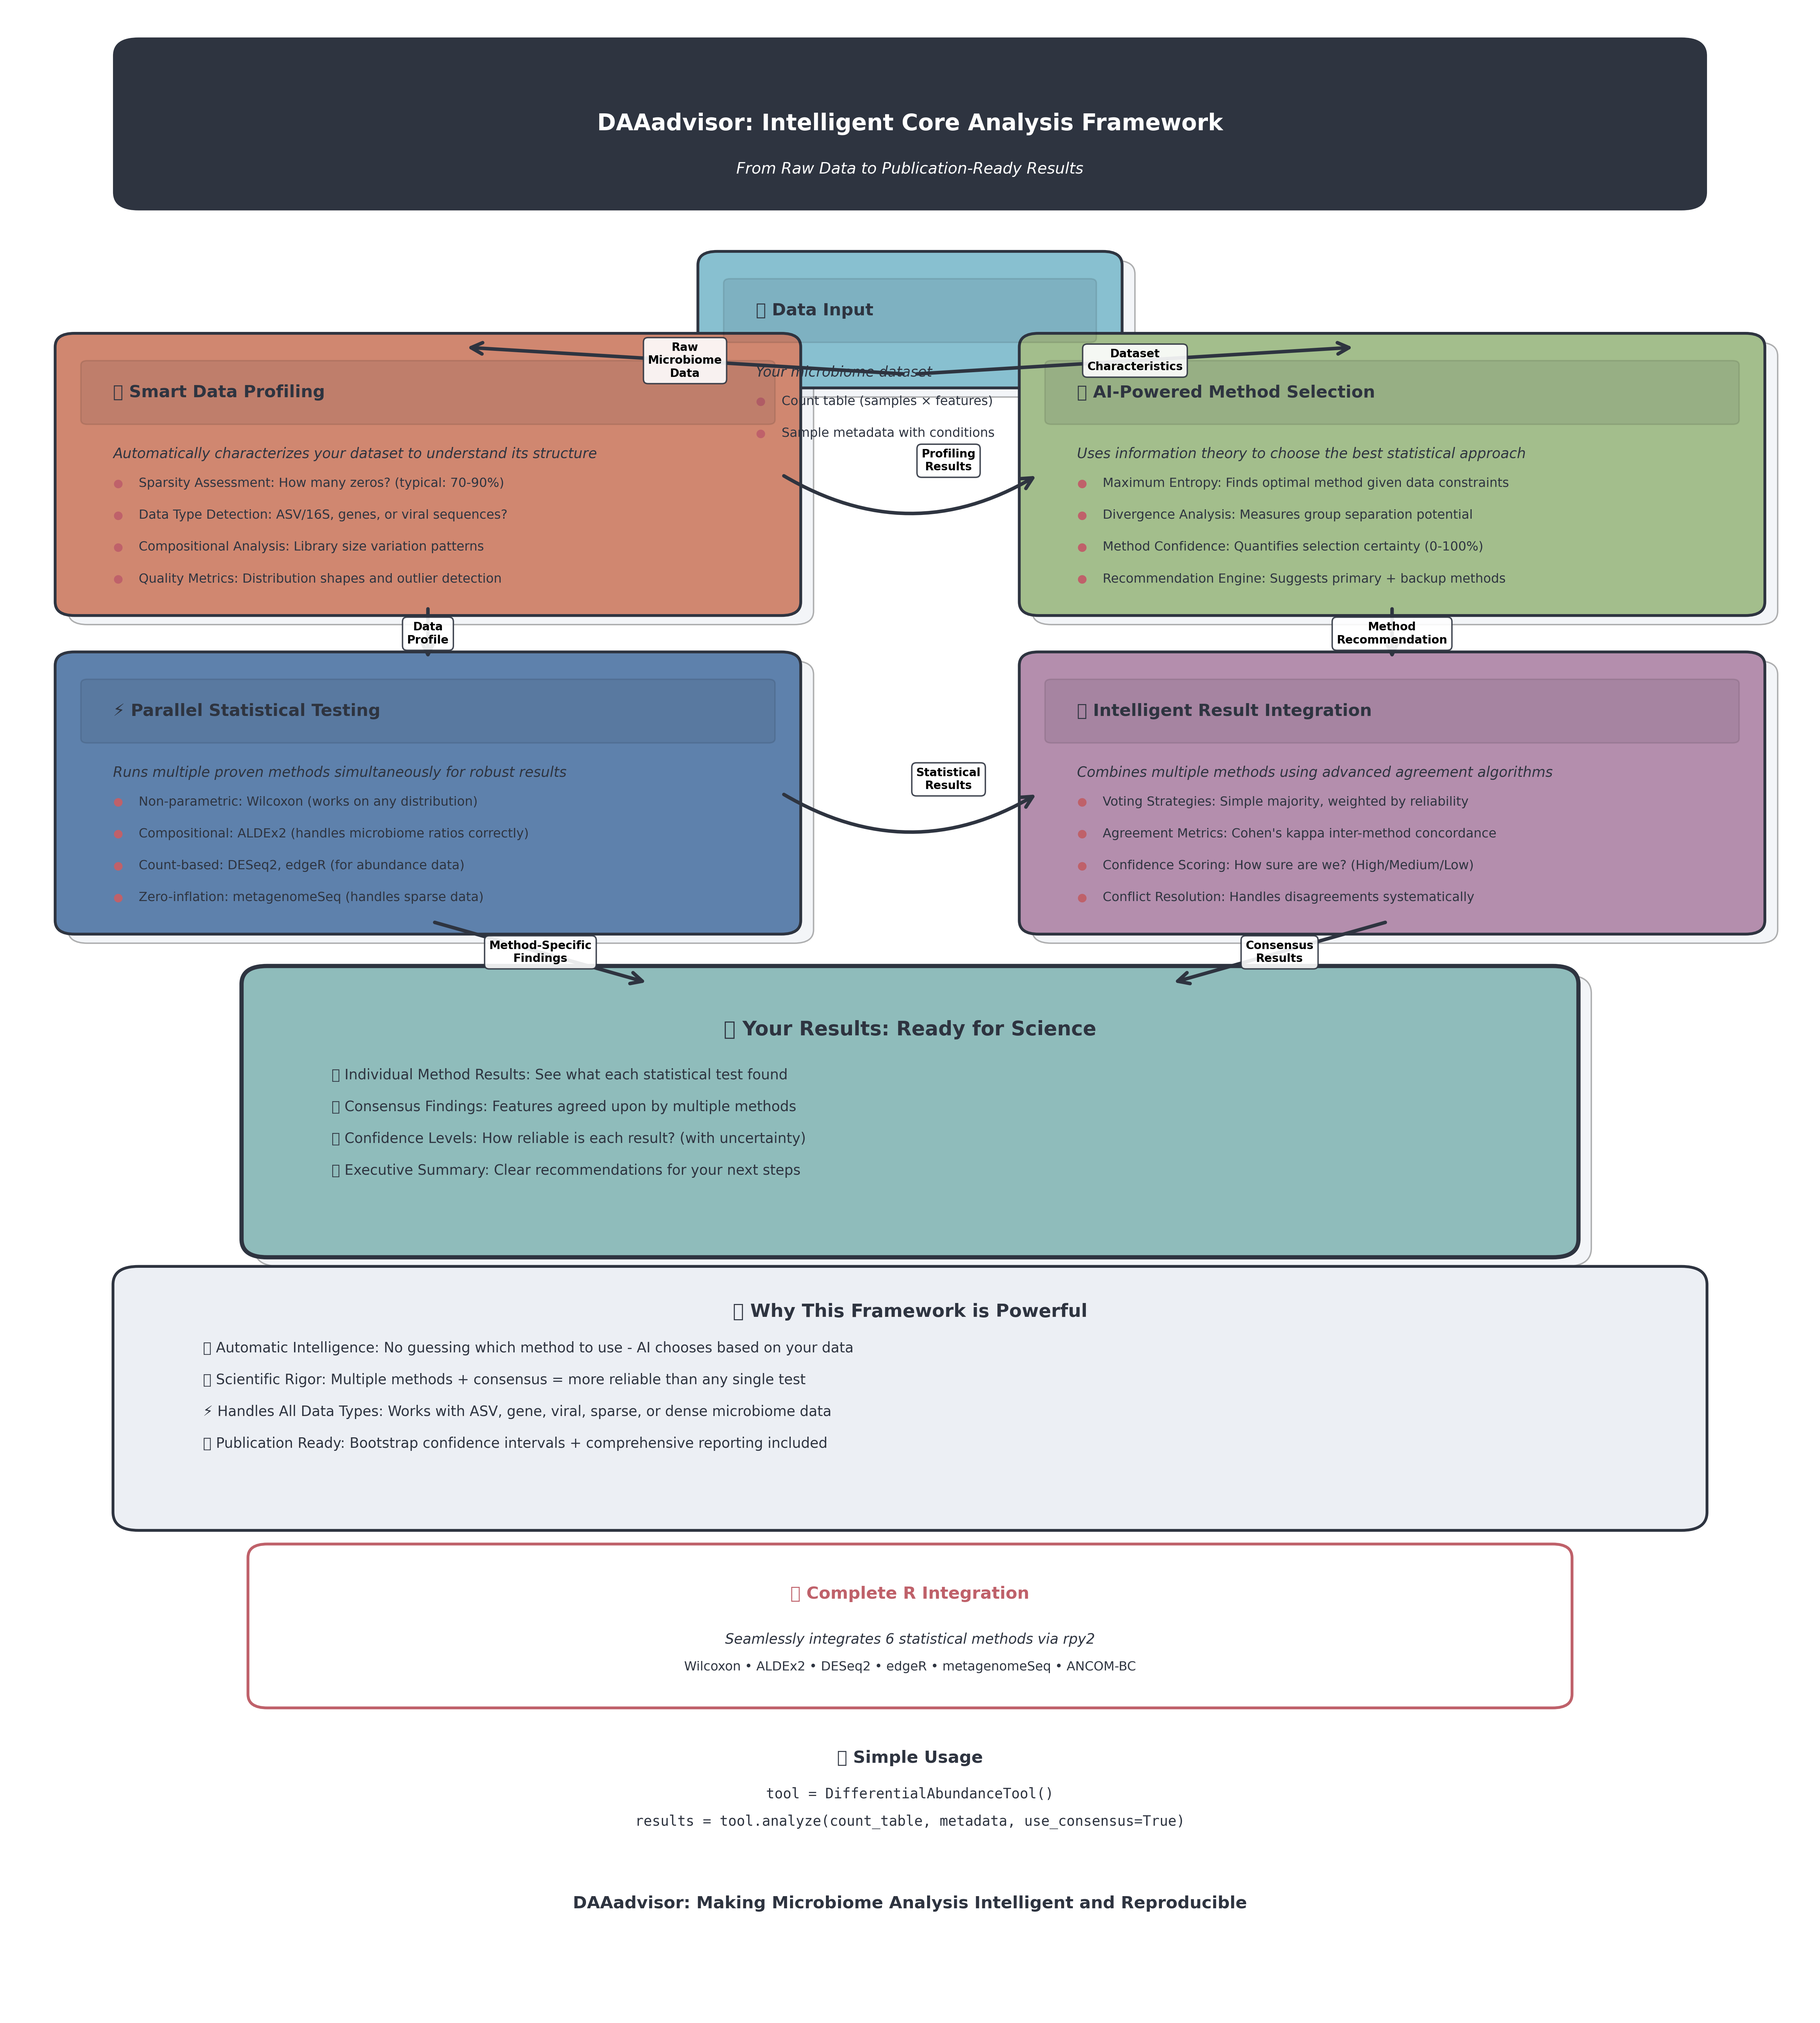
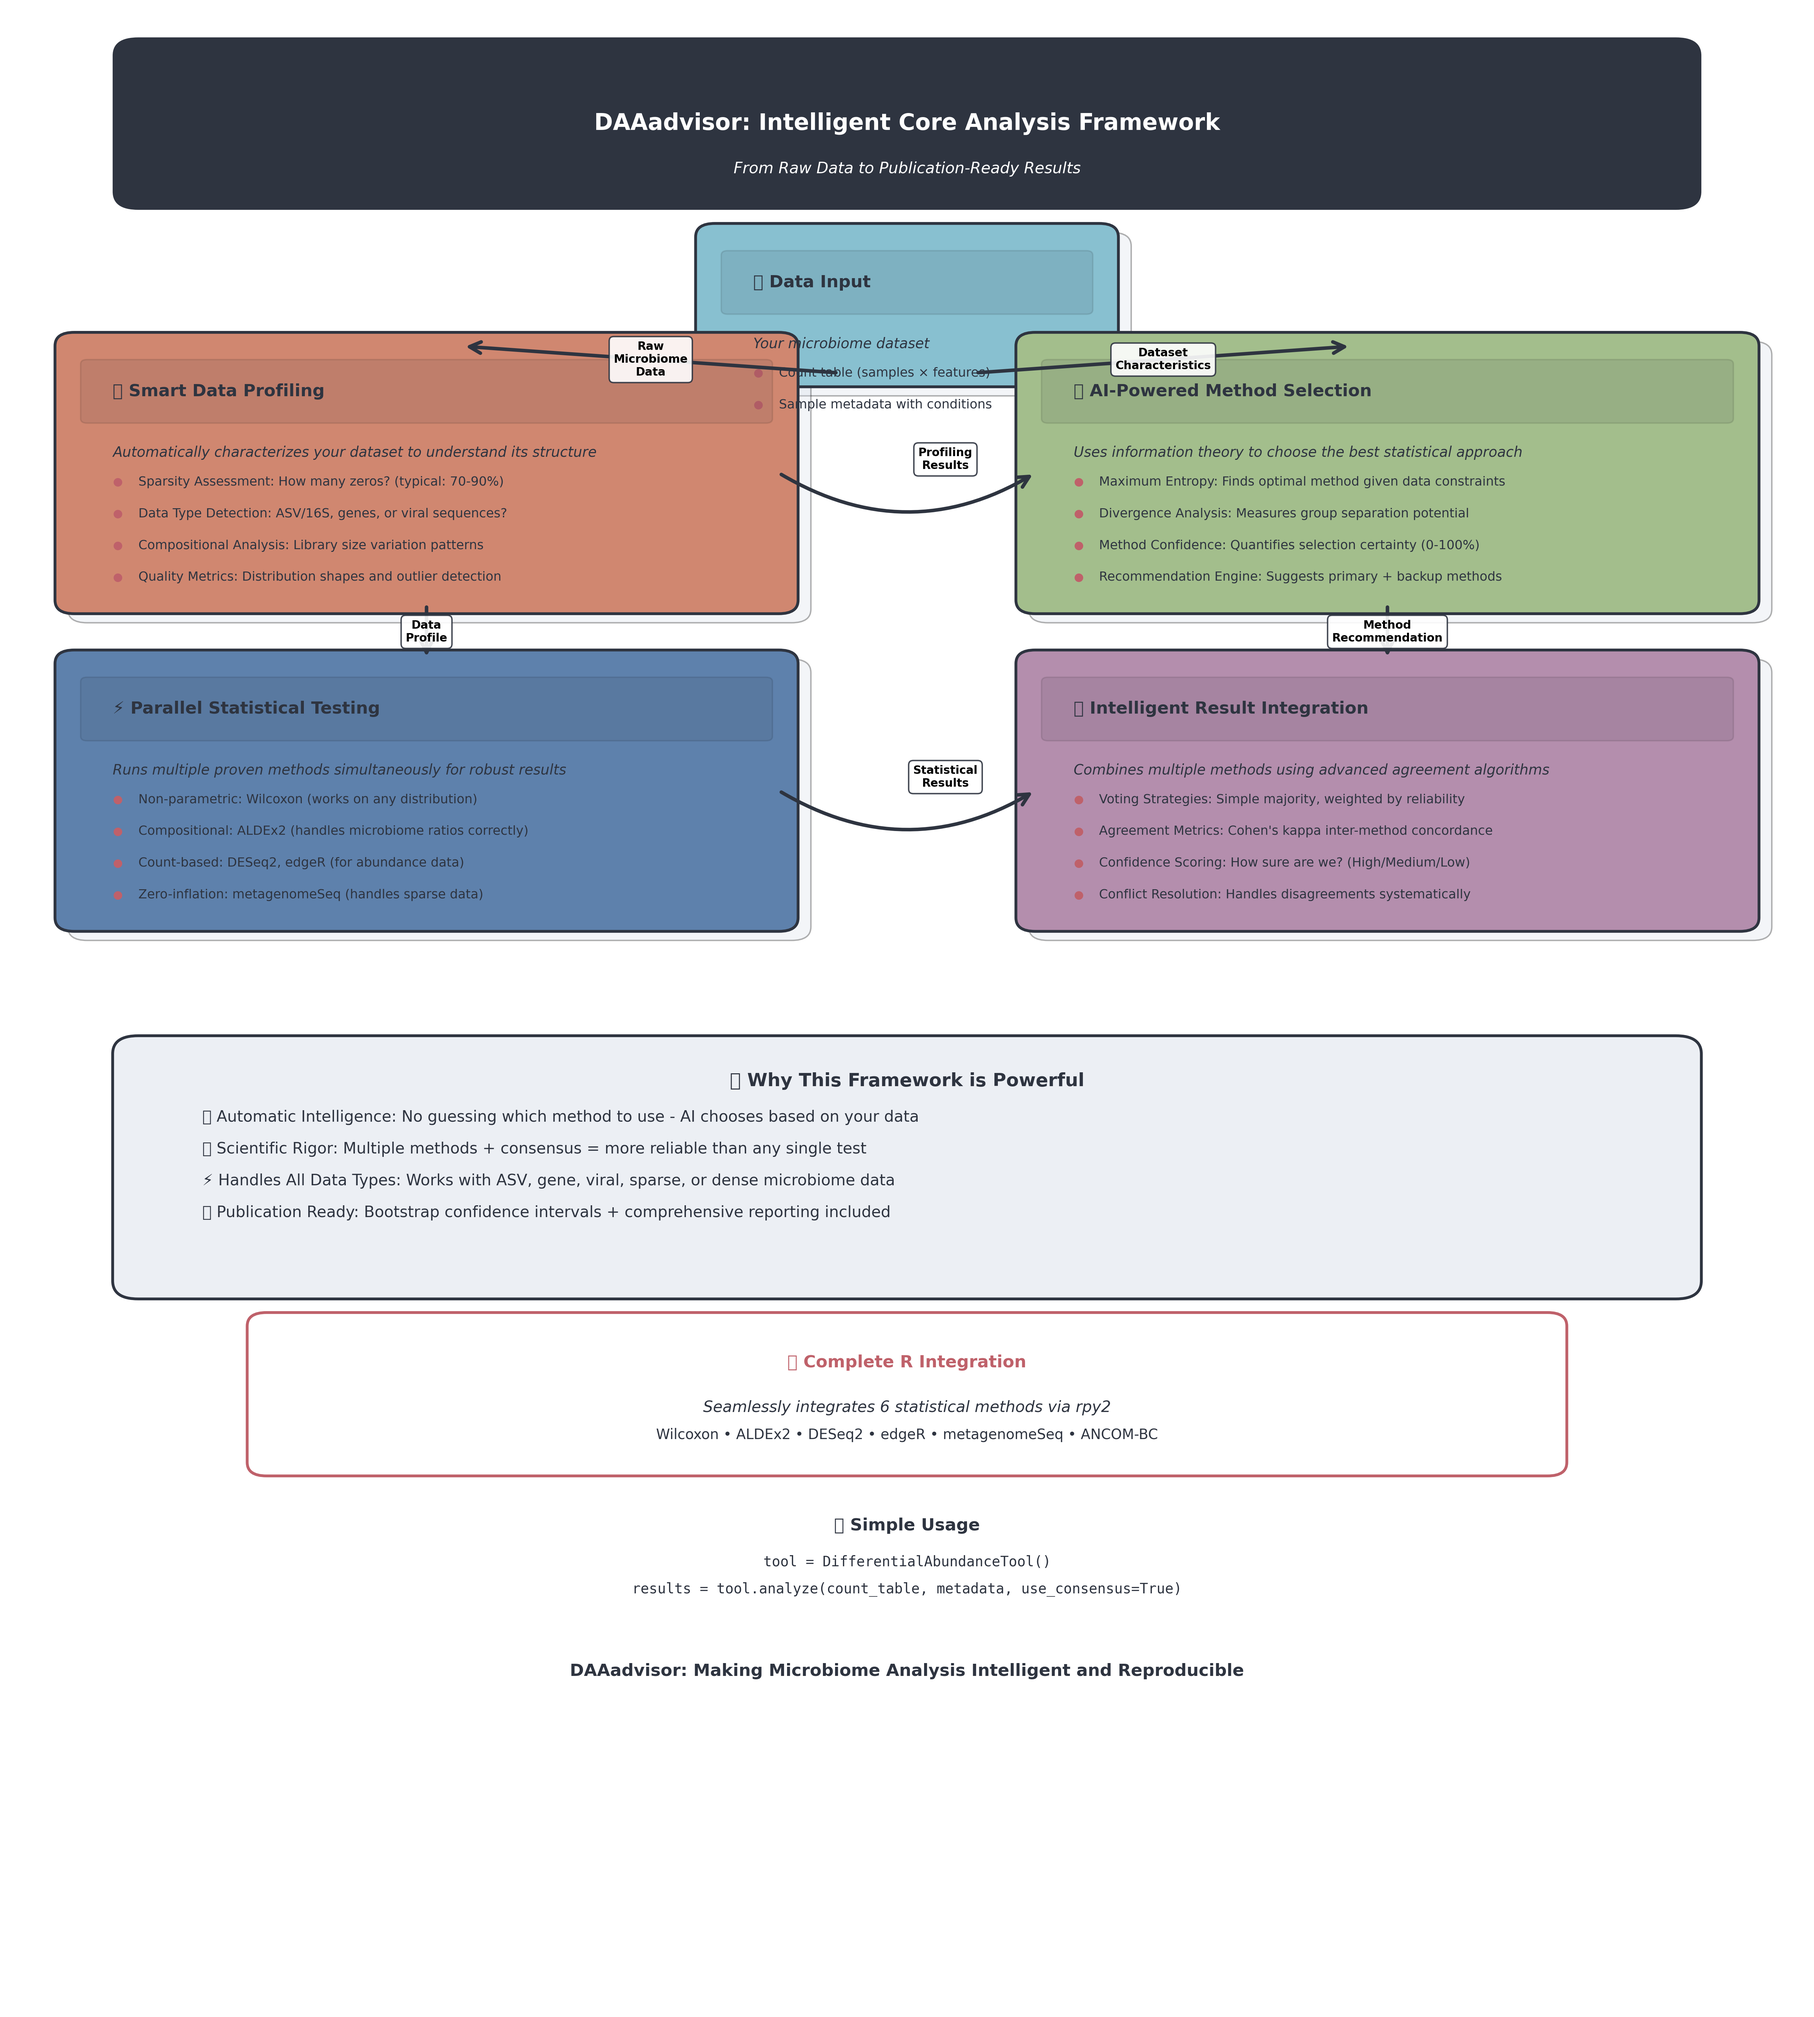
Fix data input box alignment and improve diagram layout
✨ LAYOUT FIXES: Addressed alignment and readability issues
📐 Data Input Box: Fixed positioning and increased height for better text alignment
🔤 Font Size: Increased base font size from 9 to 11 for better readability
🗑 Removed Clutter: Eliminated "Your Results: Ready for Science" section as requested
⬆ Moved Sections: Repositioned content to fill space more effectively

Key Improvements:
- Data input box properly aligned with better proportions
- Arrows from data input box now correctly positioned
- Larger font sizes throughout for better readability
- Cleaner layout with removed redundant results section
- Better vertical spacing and content flow

The diagram now has a cleaner, more professional appearance with proper alignment and improved readability.

🤖 Generated with [Claude Code](https://claude.ai/code)

diff --git a/create_enhanced_core_workflow.py b/create_enhanced_core_workflow.py
@@ -12,7 +12,7 @@ import numpy as np
 # Set up the figure with high resolution
 plt.rcParams['figure.dpi'] = 300
 plt.rcParams['savefig.dpi'] = 300
-plt.rcParams['font.size'] = 9
+plt.rcParams['font.size'] = 11
 plt.rcParams['font.family'] = 'sans-serif'
 
 fig, ax = plt.subplots(1, 1, figsize=(18, 20))
@@ -142,7 +142,7 @@ ax.text(7, 20.25, 'From Raw Data to Publication-Ready Results',
 
 # Input section
 create_modern_box(
-    5.5, 18, 3, 1.2,
+    5.5, 18, 3, 1.5,
     "Data Input",
     "Your microbiome dataset",
     [
@@ -208,46 +208,11 @@ create_modern_box(
     colors['consensus'], "🤝"
 )
 
-# Results section
-results_box = FancyBboxPatch(
-    (2, 8.5), 10, 2.8,
-    boxstyle="round,pad=0.2",
-    facecolor=colors['output'],
-    edgecolor=colors['text'],
-    linewidth=3,
-    zorder=2
-)
-ax.add_patch(results_box)
-
-# Results shadow
-results_shadow = FancyBboxPatch(
-    (2.1, 8.4), 10, 2.8,
-    boxstyle="round,pad=0.2",
-    facecolor='#D8DEE9',
-    alpha=0.3,
-    zorder=1
-)
-ax.add_patch(results_shadow)
-
-ax.text(7, 10.8, '🎯 Your Results: Ready for Science', 
-        ha='center', va='center', fontweight='bold', fontsize=14, color=colors['text'])
-
-results_content = [
-    "📈 Individual Method Results: See what each statistical test found",
-    "🏆 Consensus Findings: Features agreed upon by multiple methods", 
-    "📊 Confidence Levels: How reliable is each result? (with uncertainty)",
-    "📋 Executive Summary: Clear recommendations for your next steps"
-]
-
-y_pos = 10.3
-for item in results_content:
-    ax.text(2.5, y_pos, item, ha='left', va='center', fontsize=10, 
-            color=colors['text'], fontweight='500')
-    y_pos -= 0.35
+# Results section - removed as requested
 
 # Add sophisticated arrows with labels
-create_modern_arrow(7, 18, 3.5, 18.3, "Raw\nMicrobiome\nData")
-create_modern_arrow(7, 18, 10.5, 18.3, "Dataset\nCharacteristics")
+create_modern_arrow(6.5, 18, 3.5, 18.3, "Raw\nMicrobiome\nData")
+create_modern_arrow(7.5, 18, 10.5, 18.3, "Dataset\nCharacteristics")
 
 create_modern_arrow(3.25, 15.5, 3.25, 14.8, "Data\nProfile")
 create_modern_arrow(10.75, 15.5, 10.75, 14.8, "Method\nRecommendation")
@@ -255,12 +220,9 @@ create_modern_arrow(10.75, 15.5, 10.75, 14.8, "Method\nRecommendation")
 create_modern_arrow(6, 16.9, 8, 16.9, "Profiling\nResults", curve=0.3)
 create_modern_arrow(6, 13.4, 8, 13.4, "Statistical\nResults", curve=0.3)
 
-create_modern_arrow(3.25, 12, 5, 11.3, "Method-Specific\nFindings")
-create_modern_arrow(10.75, 12, 9, 11.3, "Consensus\nResults")
-
-# Key characteristics panel
+# Key characteristics panel - moved up to fill space
 char_box = FancyBboxPatch(
-    (1, 5.5), 12, 2.5,
+    (1, 8), 12, 2.5,
     boxstyle="round,pad=0.2",
     facecolor=colors['light_bg'],
     edgecolor=colors['text'],
@@ -269,7 +231,7 @@ char_box = FancyBboxPatch(
 )
 ax.add_patch(char_box)
 
-ax.text(7, 7.7, '💡 Why This Framework is Powerful', 
+ax.text(7, 10.2, '💡 Why This Framework is Powerful', 
         ha='center', va='center', fontweight='bold', fontsize=13, color=colors['text'])
 
 characteristics = [
@@ -279,15 +241,15 @@ characteristics = [
     "📊 Publication Ready: Bootstrap confidence intervals + comprehensive reporting included"
 ]
 
-y_pos = 7.3
+y_pos = 9.8
 for char in characteristics:
-    ax.text(1.5, y_pos, char, ha='left', va='center', fontsize=10, 
+    ax.text(1.5, y_pos, char, ha='left', va='center', fontsize=11, 
             color=colors['text'], fontweight='500')
     y_pos -= 0.35
 
-# Footer with integration info
+# Footer with integration info - moved up to fill space
 footer_box = FancyBboxPatch(
-    (2, 3.5), 10, 1.5,
+    (2, 6), 10, 1.5,
     boxstyle="round,pad=0.15",
     facecolor='white',
     edgecolor=colors['accent'],
@@ -296,25 +258,25 @@ footer_box = FancyBboxPatch(
 )
 ax.add_patch(footer_box)
 
-ax.text(7, 4.6, '🔗 Complete R Integration', 
+ax.text(7, 7.1, '🔗 Complete R Integration', 
         ha='center', va='center', fontweight='bold', fontsize=12, color=colors['accent'])
-ax.text(7, 4.1, 'Seamlessly integrates 6 statistical methods via rpy2', 
-        ha='center', va='center', fontsize=10, style='italic', color=colors['text'])
-ax.text(7, 3.8, 'Wilcoxon • ALDEx2 • DESeq2 • edgeR • metagenomeSeq • ANCOM-BC', 
-        ha='center', va='center', fontsize=9, color=colors['text'])
+ax.text(7, 6.6, 'Seamlessly integrates 6 statistical methods via rpy2', 
+        ha='center', va='center', fontsize=11, style='italic', color=colors['text'])
+ax.text(7, 6.3, 'Wilcoxon • ALDEx2 • DESeq2 • edgeR • metagenomeSeq • ANCOM-BC', 
+        ha='center', va='center', fontsize=10, color=colors['text'])
 
 # Usage example
-ax.text(7, 2.8, '🚀 Simple Usage', 
+ax.text(7, 5.3, '🚀 Simple Usage', 
         ha='center', va='center', fontweight='bold', fontsize=12, color=colors['text'])
-ax.text(7, 2.4, 'tool = DifferentialAbundanceTool()', 
+ax.text(7, 4.9, 'tool = DifferentialAbundanceTool()', 
         ha='center', va='center', fontsize=10, family='monospace', 
         color=colors['text'])
-ax.text(7, 2.1, 'results = tool.analyze(count_table, metadata, use_consensus=True)', 
+ax.text(7, 4.6, 'results = tool.analyze(count_table, metadata, use_consensus=True)', 
         ha='center', va='center', fontsize=10, family='monospace', 
         color=colors['text'])
 
 # Final footer
-ax.text(7, 1.2, 'DAAadvisor: Making Microbiome Analysis Intelligent and Reproducible', 
+ax.text(7, 3.7, 'DAAadvisor: Making Microbiome Analysis Intelligent and Reproducible', 
         ha='center', va='center', fontsize=12, fontweight='bold', color=colors['header'])
 
 plt.tight_layout()
